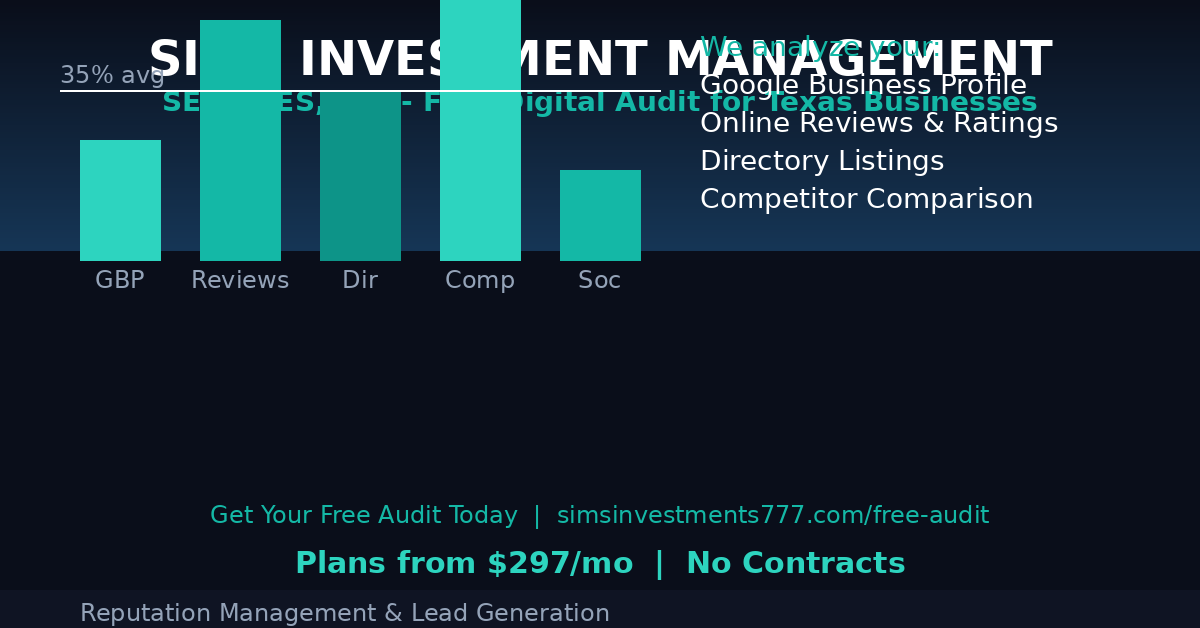
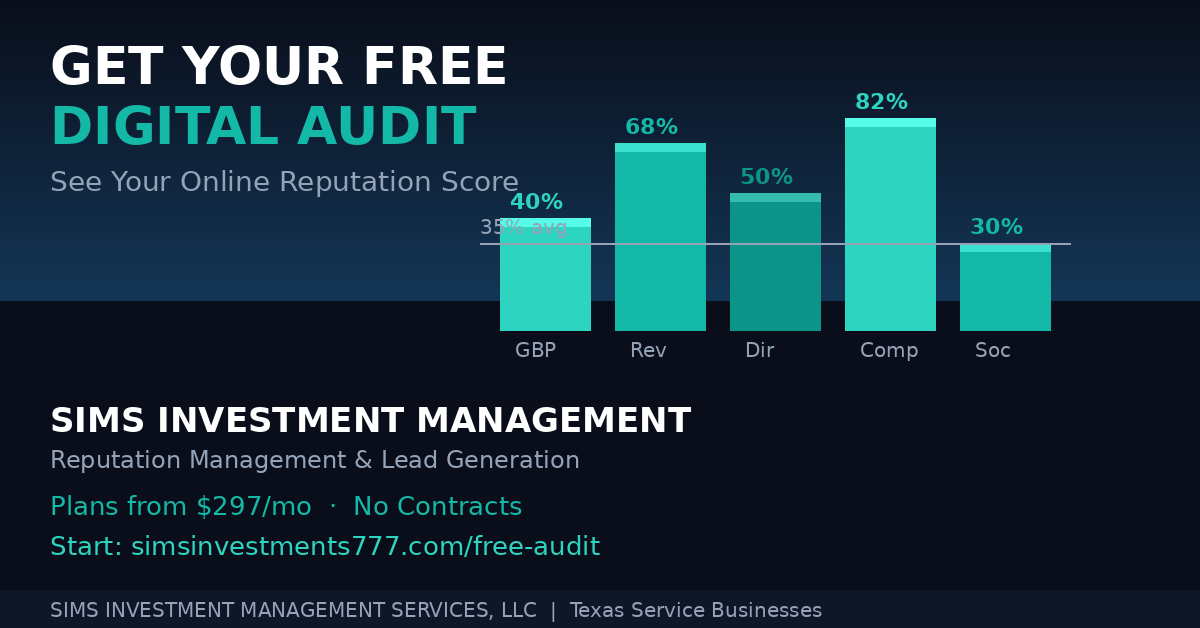
Cleaner Google Ads images with proper spacing

diff --git a/scripts/generate_ads.py b/scripts/generate_ads.py
@@ -1,0 +1,160 @@
+#!/usr/bin/env python3
+"""Generate clean Google Ads images for Sims Investment Management."""
+from PIL import Image, ImageDraw, ImageFont
+import os, math
+
+DIR = '/home/ubuntu/sims-website/public/ads'
+os.makedirs(DIR, exist_ok=True)
+
+FONT_BOLD = '/usr/share/fonts/truetype/dejavu/DejaVuSans-Bold.ttf'
+FONT_REG  = '/usr/share/fonts/truetype/dejavu/DejaVuSans.ttf'
+TEAL = (20, 184, 166)
+TEAL_LT = (45, 212, 191)
+TEAL_DK = (13, 148, 136)
+SLATE = (148, 163, 184)
+WHITE = (255, 255, 255)
+NAVY  = (10, 14, 26)
+
+# ===========================
+# LOGO
+# ===========================
+img = Image.new('RGBA', (500, 500), NAVY + (255,))
+d = ImageDraw.Draw(img)
+# Outer ring
+for i in range(360):
+    r = math.radians(i)
+    x, y = 250 + 235*math.cos(r), 250 + 235*math.sin(r)
+    d.ellipse([x-3, y-3, x+3, y+3], fill=TEAL)
+# Inner ring
+for i in range(360):
+    r = math.radians(i)
+    x, y = 250 + 200*math.cos(r), 250 + 200*math.sin(r)
+    d.ellipse([x-1, y-1, x+1, y+1], fill=TEAL_LT)
+# S letter
+f = ImageFont.truetype(FONT_BOLD, 220)
+d.text((145, 190), 'S', fill=TEAL, font=f)
+# Bottom text
+f2 = ImageFont.truetype(FONT_BOLD, 22)
+d.text((135, 350), 'INVESTMENT', fill=TEAL_LT, font=f2)
+d.text((175, 380), 'MGMT', fill=SLATE, font=f2)
+img.save(f'{DIR}/logo.png')
+print('Logo done')
+
+# ===========================
+# SQUARE AD
+# ===========================
+sq = Image.new('RGB', (1200, 1200), NAVY)
+d = ImageDraw.Draw(sq)
+# Gradient
+for i in range(400):
+    r = int(10 + i/400*10); g = int(14 + i/400*40); b = int(26 + i/400*60)
+    d.rectangle([0, i, 1200, i+1], (r, g, b))
+
+# Big headline
+f_h1 = ImageFont.truetype(FONT_BOLD, 64)
+d.text((80, 50),  'SIMS INVESTMENT',  fill=WHITE, font=f_h1)
+d.text((80, 120), 'MANAGEMENT',      fill=WHITE, font=f_h1)
+# Tagline
+f_h2 = ImageFont.truetype(FONT_REG, 32)
+d.text((80, 200), 'Free Digital Audit for Texas Businesses', fill=TEAL, font=f_h2)
+
+# Chart - 5 bars with lots of space
+chart_x, chart_y = 80, 300
+bar_w, gap, max_h = 120, 40, 350
+bars = [0.4, 0.68, 0.5, 0.82, 0.3]
+labels = ['GBP',  'Reviews', 'Directories', 'Competitors', 'Social']
+pcts  = ['40%',   '68%',     '50%',        '82%',         '30%']
+colors = [TEAL_LT, TEAL, TEAL_DK, TEAL_LT, TEAL]
+for i in range(5):
+    x = chart_x + i*(bar_w + gap)
+    h = int(bars[i] * max_h)
+    c = colors[i]
+    # Bar
+    d.rectangle([x, chart_y + max_h - h, x+bar_w, chart_y + max_h], fill=c)
+    # Rounded top
+    d.rectangle([x, chart_y + max_h - h, x+bar_w, chart_y + max_h - h + 12], fill=(min(c[0]+40,255), min(c[1]+40,255), min(c[2]+40,255)))
+    # Percentage label above bar
+    f_lbl = ImageFont.truetype(FONT_BOLD, 28)
+    d.text((x+20, chart_y + max_h - h - 40), pcts[i], fill=c, font=f_lbl)
+    # Label below bar
+    f_sm = ImageFont.truetype(FONT_REG, 24)
+    d.text((x+10, chart_y + max_h + 10), labels[i], fill=SLATE, font=f_sm)
+
+# Average line
+avg_y = chart_y + max_h - int(0.35 * max_h)
+d.line([chart_x-20, avg_y, chart_x+5*(bar_w+gap)-gap+20, avg_y], fill=SLATE+(60,), width=2)
+f_avg = ImageFont.truetype(FONT_REG, 22)
+d.text((chart_x-20, avg_y-35), 'Texas Avg: 35%', fill=SLATE, font=f_avg)
+
+# Bottom section
+f_cta = ImageFont.truetype(FONT_BOLD, 38)
+d.text((80, 780), 'Reputation Management',     fill=WHITE, font=f_cta)
+d.text((80, 830), '& Lead Generation',          fill=WHITE, font=f_cta)
+
+f_bot = ImageFont.truetype(FONT_REG, 30)
+d.text((80, 900),  'Plans from $297/mo',        fill=TEAL, font=f_bot)
+d.text((80, 945),  'No Long-Term Contracts',    fill=TEAL_LT, font=f_bot)
+
+# Footer bar
+d.rectangle([0, 1140, 1200, 1200], fill=(15, 22, 40))
+f_foot = ImageFont.truetype(FONT_REG, 24)
+d.text((80, 1160), 'Start your free audit at simsinvestments777.com/free-audit', fill=TEAL, font=f_foot)
+
+sq.save(f'{DIR}/image1-square.png')
+print('Square done')
+
+# ===========================
+# LANDSCAPE AD
+# ===========================
+ln = Image.new('RGB', (1200, 628), NAVY)
+d = ImageDraw.Draw(ln)
+for i in range(300):
+    r = int(10 + i/300*10); g = int(14 + i/300*40); b = int(26 + i/300*60)
+    d.rectangle([0, i, 1200, i+1], (r, g, b))
+
+# Title row
+f_big = ImageFont.truetype(FONT_BOLD, 52)
+d.text((50, 35),  'GET YOUR FREE',           fill=WHITE, font=f_big)
+d.text((50, 95),  'DIGITAL AUDIT',           fill=TEAL, font=f_big)
+
+f_sub = ImageFont.truetype(FONT_REG, 28)
+d.text((50, 165), 'See Your Online Reputation Score', fill=SLATE, font=f_sub)
+
+# Mini chart (right side)
+cx, cy = 500, 80
+bw, bg = 90, 25
+bars2 = [0.45, 0.75, 0.55, 0.85, 0.35]
+lbls2 = ['GBP', 'Rev', 'Dir', 'Comp', 'Soc']
+for i in range(5):
+    x = cx + i*(bw+bg)
+    h = int(bars2[i] * 250)
+    c = colors[i]
+    d.rectangle([x, cy+250-h, x+bw, cy+250], fill=c)
+    d.rectangle([x, cy+250-h, x+bw, cy+250-h+8], fill=(min(c[0]+40,255), min(c[1]+40,255), min(c[2]+40,255)))
+    f_vl = ImageFont.truetype(FONT_BOLD, 22)
+    d.text((x+10, cy+250-h-30), pcts[i], fill=c, font=f_vl)
+    f_lb = ImageFont.truetype(FONT_REG, 20)
+    d.text((x+15, cy+250+8), lbls2[i], fill=SLATE, font=f_lb)
+
+avg_y2 = cy + 250 - int(0.35*250)
+d.line([cx-20, avg_y2, cx+5*(bw+bg)-bg+20, avg_y2], fill=SLATE+(60,), width=2)
+f_av = ImageFont.truetype(FONT_REG, 20)
+d.text((cx-20, avg_y2-28), '35% avg', fill=SLATE, font=f_av)
+
+# Bottom row
+f_bn = ImageFont.truetype(FONT_BOLD, 34)
+d.text((50, 400), 'SIMS INVESTMENT MANAGEMENT',      fill=WHITE, font=f_bn)
+f_bs = ImageFont.truetype(FONT_REG, 24)
+d.text((50, 445),  'Reputation Management & Lead Generation', fill=SLATE, font=f_bs)
+f_bt = ImageFont.truetype(FONT_REG, 26)
+d.text((50, 490),  'Plans from $297/mo  ·  No Contracts',   fill=TEAL, font=f_bt)
+d.text((50, 530),  'Start: simsinvestments777.com/free-audit', fill=TEAL_LT, font=f_bt)
+
+# Footer
+d.rectangle([0, 590, 1200, 628], fill=(15, 22, 40))
+f_fn = ImageFont.truetype(FONT_REG, 20)
+d.text((50, 598), 'SIMS INVESTMENT MANAGEMENT SERVICES, LLC  |  Texas Service Businesses', fill=SLATE, font=f_fn)
+
+ln.save(f'{DIR}/image2-landscape.png')
+print('Landscape done')
+print('All done!')
